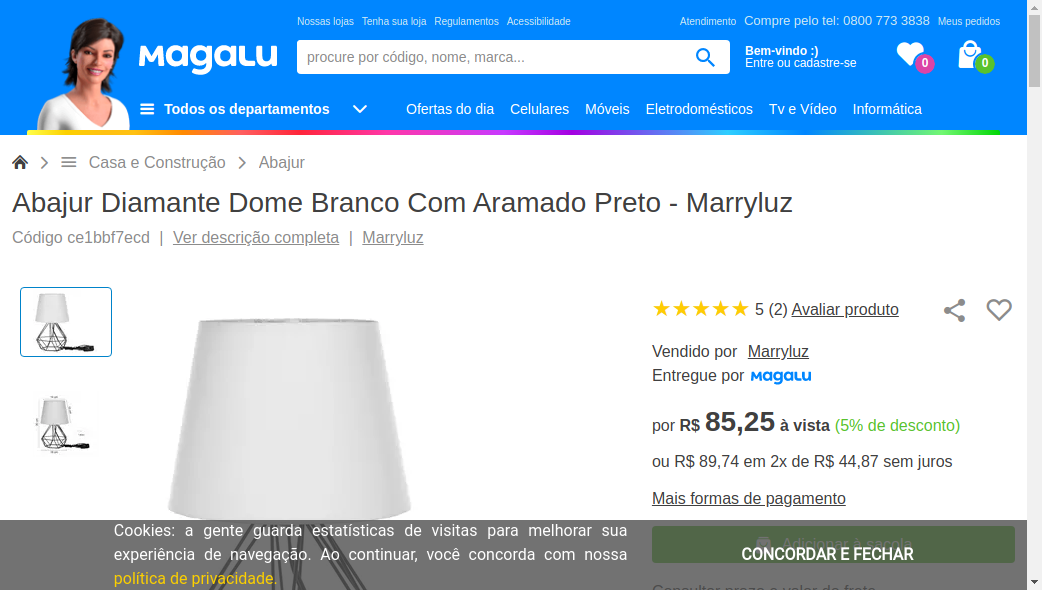
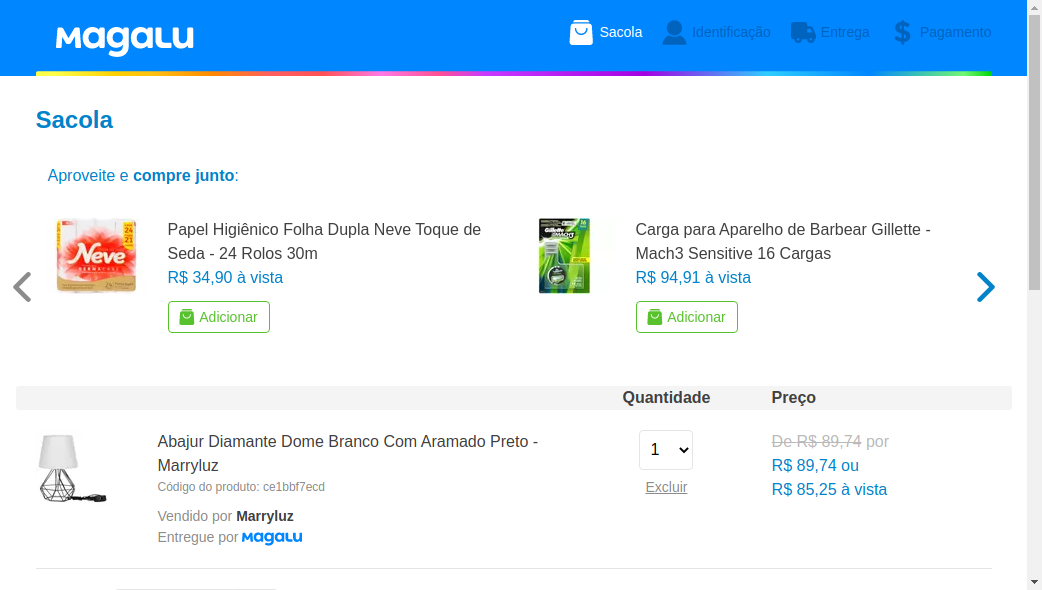
Criaçaõ do step para inserir no carrinho

diff --git a/src/test/java/steps/CarrinhoCompraSteps.java b/src/test/java/steps/CarrinhoCompraSteps.java
@@ -26,7 +26,6 @@ import io.cucumber.junit.Cucumber;
 public class CarrinhoCompraSteps {
 
 	private WebDriver driver;
-	private List<WebElement> li;
 	private String nomeProduto;
 
 	@Dado("que estou acessando a aplicação")
@@ -52,8 +51,6 @@ public class CarrinhoCompraSteps {
 		List<WebElement> li = driver.findElements(By.xpath("//li[@class='nm-product-item']"));
 
 		String text = li.get(0).getText();
-		System.out.println(li.get(0).getText());
-		System.out.println(li.size());
 
 		Assert.assertTrue(text.contains(string));
 	}
@@ -62,41 +59,46 @@ public class CarrinhoCompraSteps {
 	public void selecionoUmProduto() {
 		List<WebElement> li = driver.findElements(By.xpath("//li[@class='nm-product-item']"));
 
-		System.out.println(li.size());
-
-		System.out.println(li.get(3).getText());
 		nomeProduto = li.get(3).getText();
 		li.get(3).click();
-		// driver.findElement(By.id("product_deje76h9e2")).click();
-
+	
 	}
 
 	@Quando("adiciono ao carrinho")
 	public void adicionoAoCarrinho() {
-		// driver.findElement(By.xpath("//*[@class='button__buy
-		// button__buy-product-detail js-add-cart-button js-main-add-cart-button
-		// js-add-box-prime']"));
+		driver.manage().timeouts().implicitlyWait(60, TimeUnit.SECONDS);
+		driver.findElement(By.xpath(
+				"//*[@class='container-button-banner']")).click();
 
-		// driver.manage().timeouts().implicitlyWait(10, TimeUnit.SECONDS);
-		// driver.findElement(By.xpath("//p[text()='Abajur Diamante Dome Branco Com
-		// Aramado Preto - Marryluz']"));
+		driver.findElement(By.xpath(
+				"//*[@class='button__buy button__buy-product-detail js-add-cart-button js-main-add-cart-button js-add-box-prime']")).click();
+
 	}
 
 	@Quando("abrir carrinho de compras")
 	public void abrirCarrinhoDeCompras() {
+		driver.manage().timeouts().implicitlyWait(60, TimeUnit.SECONDS);
+		WebDriverWait wait = new WebDriverWait(driver, 30);
+		wait.until(ExpectedConditions.visibilityOfElementLocated(By.xpath("//div[@class='BasketPage-title']")));
+
+		String texto = driver.findElement(By.xpath("//div[@class='BasketPage-title']")).getText();
+
+		System.out.println(texto);
+		Assert.assertEquals("Sacola", texto);
 
 	}
 
 	@Então("devo encontrar o produto selecionado")
 	public void devoEncontrarOProdutoSelecionado() {
-
+		String titulo = driver.findElement(By.xpath("//p[contains(text(),'Abajur Diamante Dome')]")).getText();
+		Assert.assertEquals("Abajur Diamante Dome Branco Com Aramado Preto - Marryluz", titulo);
 	}
 
 	@After(order = 1)
 	public void screenshot(Scenario cenario) {
 		File file = ((TakesScreenshot) driver).getScreenshotAs(OutputType.FILE);
 		try {
-			FileUtils.copyFile(file, new File("target/screenshot/" + cenario.getName()+ ".jpg"));
+			FileUtils.copyFile(file, new File("target/screenshot/" + cenario.getName() + ".jpg"));
 		} catch (IOException e) {
 			e.printStackTrace();
 		}
